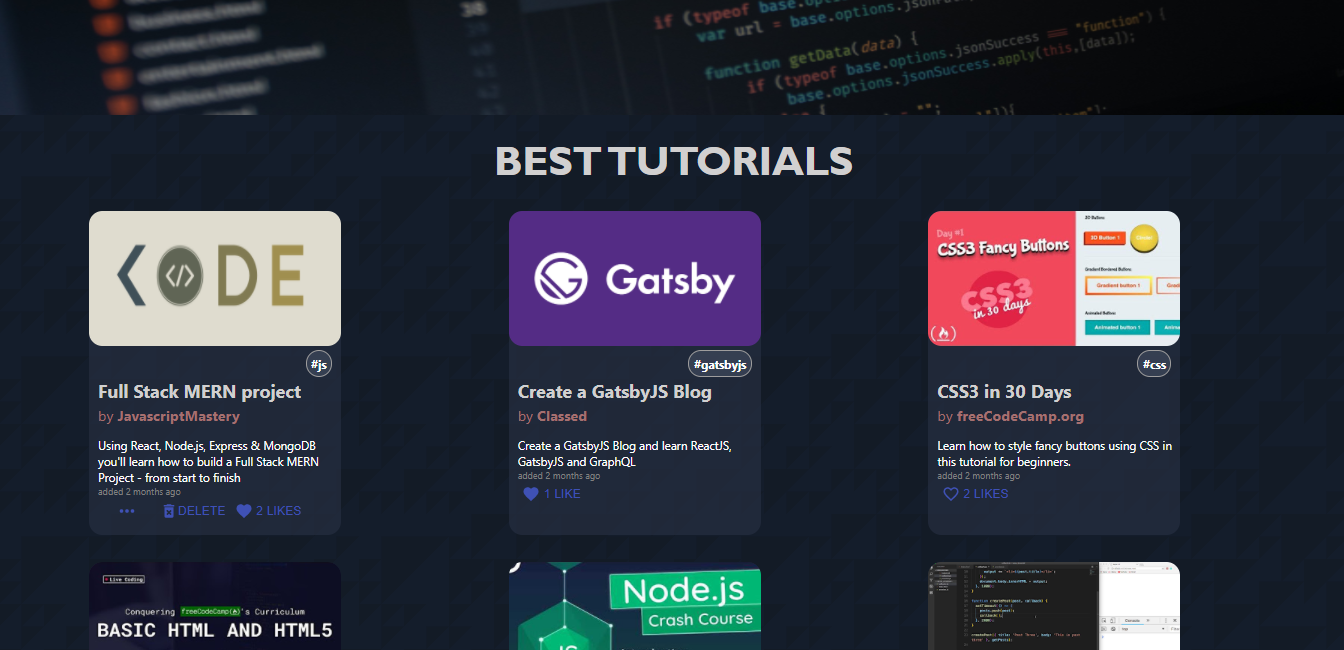
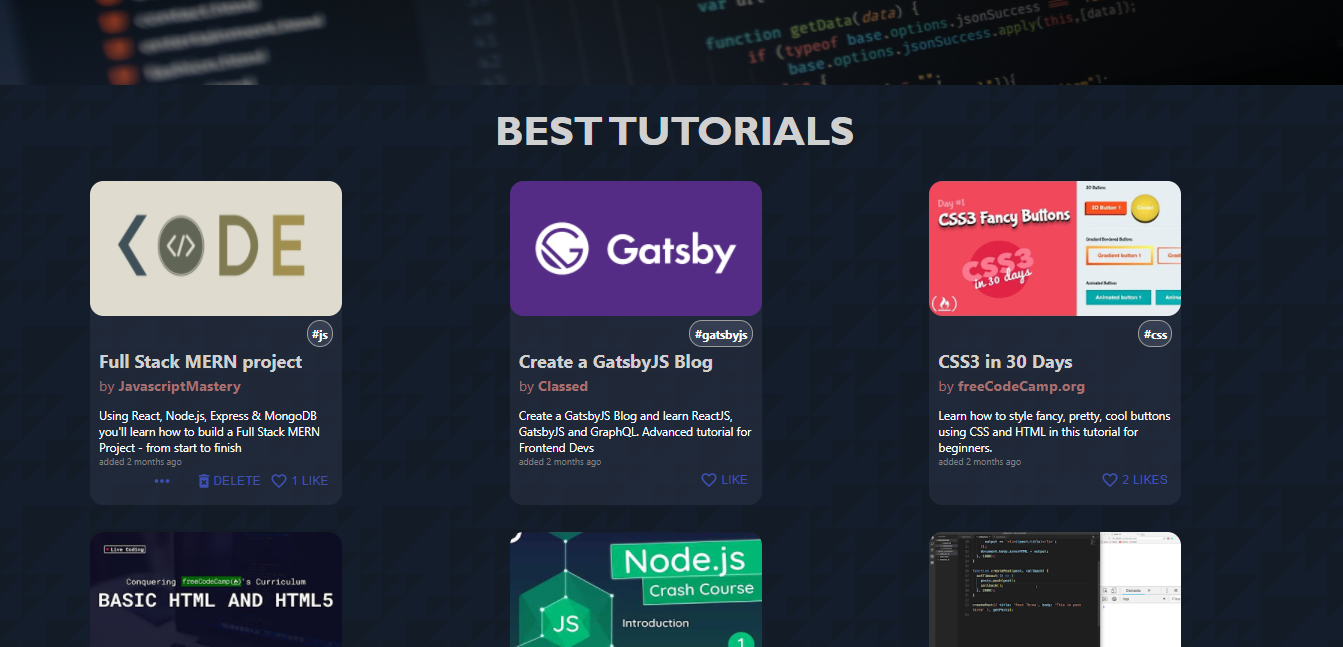
update README.md

diff --git a/client/kode/src/components/Post/Post.js b/client/kode/src/components/Post/Post.js
@@ -67,38 +67,39 @@ const Post = ({ post, setCurrentId }) => {
             added {moment(post.createdAt).fromNow()}
           </span>
         </div>
+        <div className={classes.buttons}>
+          {(user?.result?.googleId === post?.creator ||
+            user?.result?._id === post?.creator) && (
+            <Button
+              size="small"
+              color="primary"
+              onClick={() => {
+                setCurrentId(post._id);
+              }}
+            >
+              <MoreHorizIcon />
+            </Button>
+          )}
+          {(user?.result?.googleId === post?.creator ||
+            user?.result?._id === post?.creator) && (
+            <Button
+              size="small"
+              color="primary"
+              onClick={() => dispatch(deletePost(post._id))}
+            >
+              <DeleteForeverIcon fontSize="small" /> Delete
+            </Button>
+          )}
 
-        {(user?.result?.googleId === post?.creator ||
-          user?.result?._id === post?.creator) && (
           <Button
             size="small"
             color="primary"
-            onClick={() => {
-              setCurrentId(post._id);
-            }}
+            disabled={!user?.result}
+            onClick={() => dispatch(likePost(post._id))}
           >
-            <MoreHorizIcon />
+            <Likes />
           </Button>
-        )}
-        {(user?.result?.googleId === post?.creator ||
-          user?.result?._id === post?.creator) && (
-          <Button
-            size="small"
-            color="primary"
-            onClick={() => dispatch(deletePost(post._id))}
-          >
-            <DeleteForeverIcon fontSize="small" /> Delete
-          </Button>
-        )}
-
-        <Button
-          size="small"
-          color="primary"
-          disabled={!user?.result}
-          onClick={() => dispatch(likePost(post._id))}
-        >
-          <Likes />
-        </Button>
+        </div>
       </div>
     </div>
   );

diff --git a/client/kode/src/components/Post/Post.css b/client/kode/src/components/Post/Post.css
@@ -30,7 +30,11 @@ a {
   margin-right: 10px;
   border: 1px solid rgb(158, 157, 157);
 }
-
+.buttons {
+  display: flex;
+  justify-content: flex-end;
+  margin-right: 10px;
+}
 .textInPost {
   margin-left: 10px;
 }

diff --git a/README.md b/README.md
@@ -17,6 +17,7 @@ KODE is a website for anyone who wants to learn programming. It collects a lot o
 <p float="left">
 <img src="images/home.png" width="400">
 <img src="images/tutorials.png" width="400">
+<img src="images/favs.png" width="400">
 
 </p>
 
